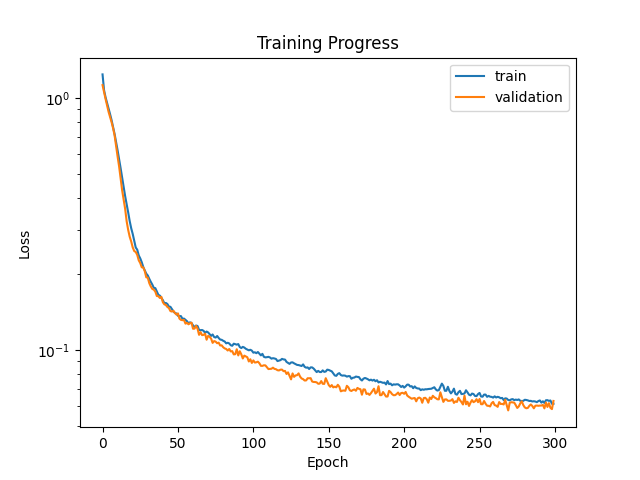
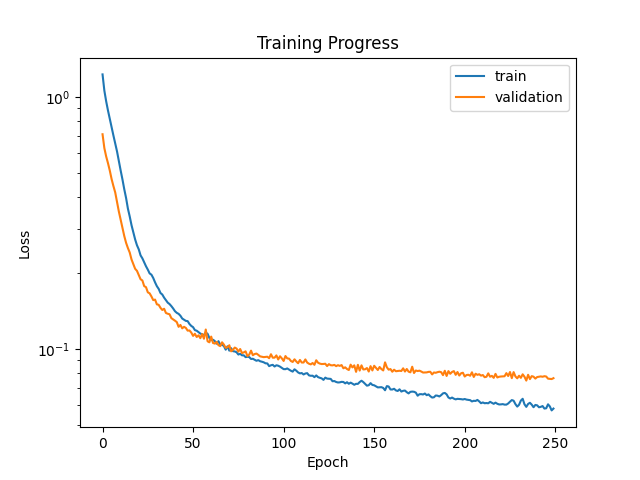
tcn parameter tunning and data cropping

diff --git a/tcn_implementation.py b/tcn_implementation.py
@@ -25,12 +25,12 @@ TS_PAST     = 120   # Time steps to look into the past (context) [h]
 TS_FUTURE   = 24    # Time steps to look into the future (forecast) [h]
 
 # Global nn parameters
-epochs = 300                        # Training epochs
+epochs = 250                        # Training epochs
 input_size = TS_PAST                # Context
 output_size = TS_FUTURE             # Forecast
-channel_sizes = [num_features]*5    # Temporal causal layer channels
+channel_sizes = [num_features]*5    # Temporal causal layer channels [num of features]*amount of filters per layer
 kernel_size = 5                     # Convolution kernel size
-dropout = .3                        # Dropout
+dropout = .2                        # Dropout
 learning_rate = 0.005               # Learning rate
 
 # Import time-series from stored pickles
@@ -43,6 +43,7 @@ for file in files:
     df_list.append(df)
 nb_stations = len(files)
 df = pd.concat(df_list,axis=1)
+df = df.iloc[40000:60000,:] # crop df to lower calc time
 
 # Preprocessing data with z-score normalization
 z_mean = df.mean()
@@ -207,7 +208,7 @@ df_params_iter.to_csv(csv_file_path, index=False)
 # Plot prediction and context
 plt.figure(figsize=(10,6)) #plotting
 plt.title('TCN predictions with context')
-start_plot = 2500
+start_plot = len(y_arr_test) - 2*TS_PAST
 y = df.iloc[:,selected_feature]
 y = y[-len(y_arr_test):]
 y = y * z_std[selected_feature] + z_mean[selected_feature]  # Remove z-score normalization
